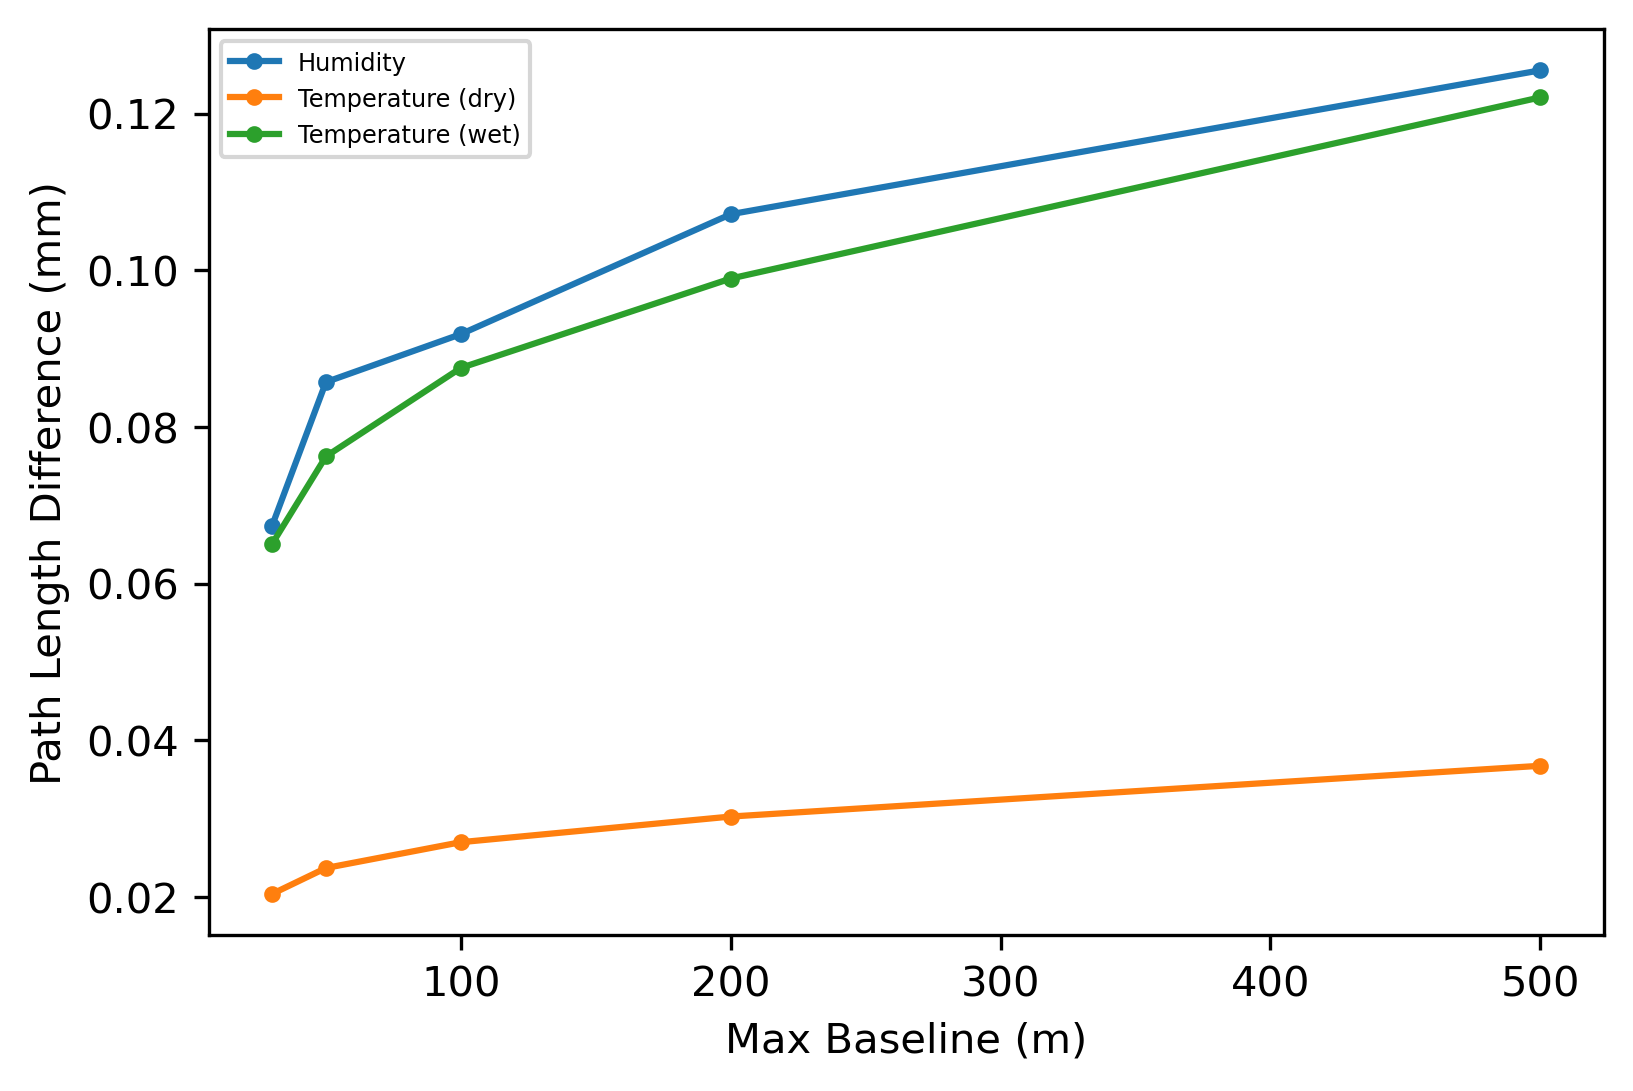
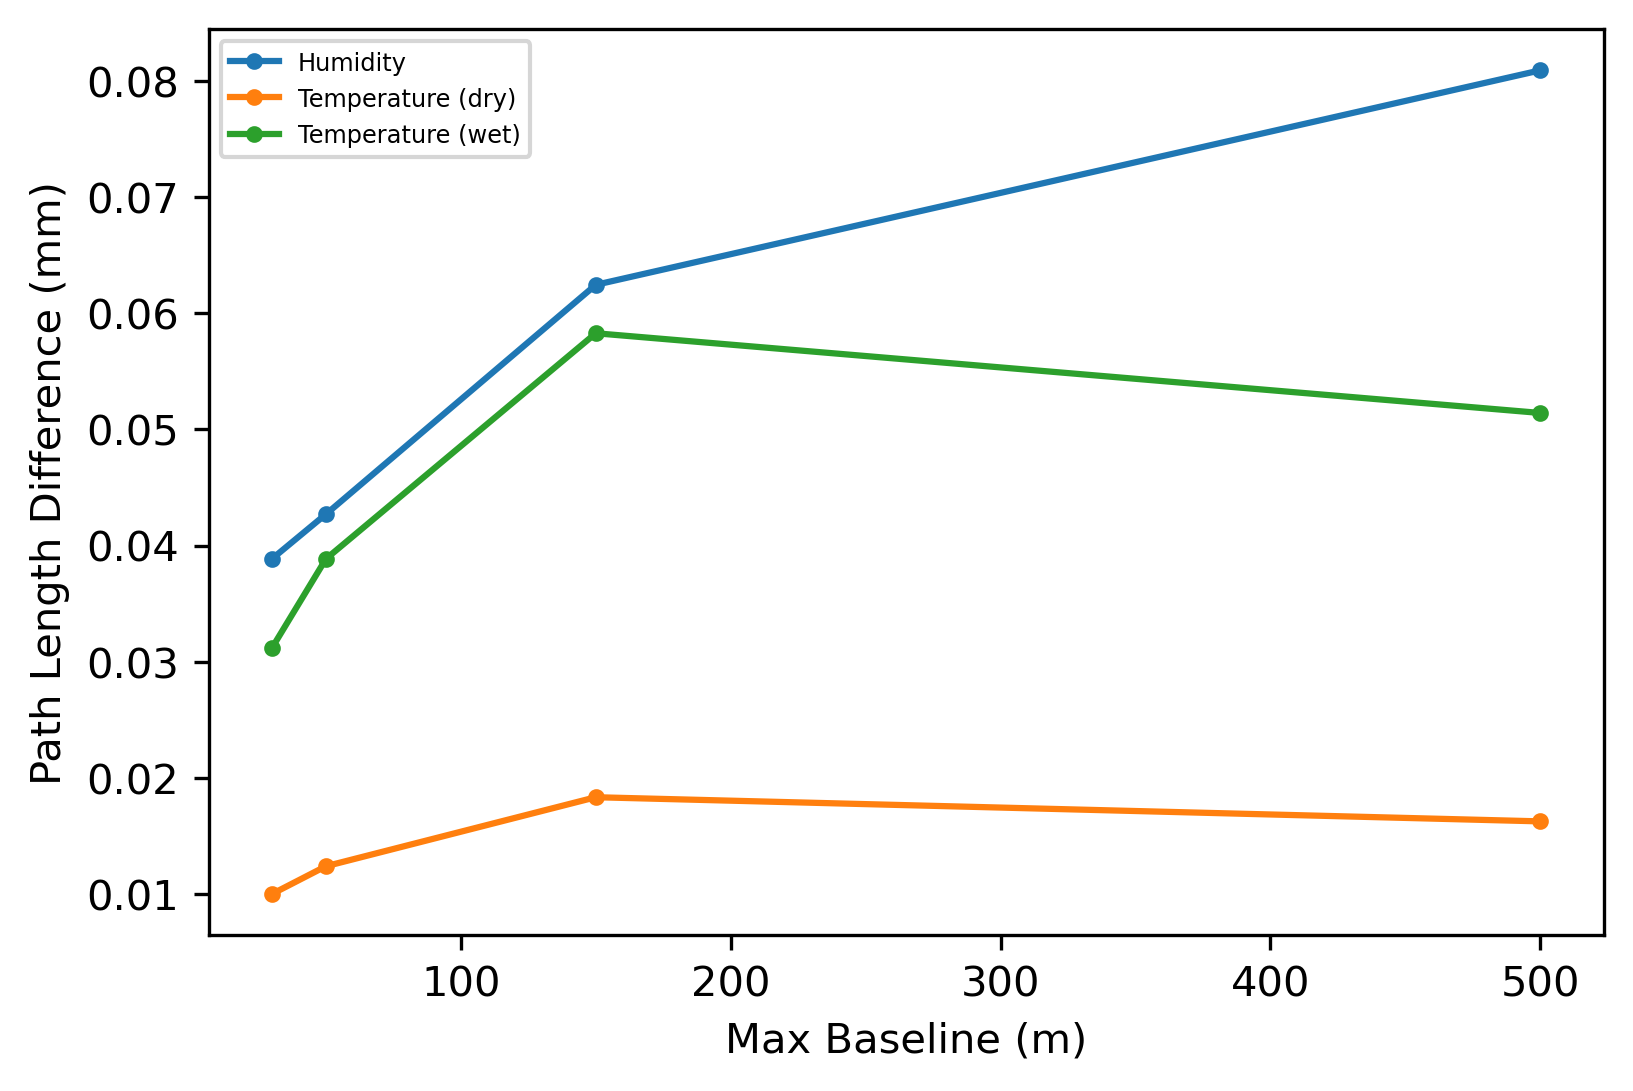
Final plots

diff --git a/test_plots.py b/test_plots.py
@@ -17,12 +17,11 @@ configs = [0,30,50,100,200,500,1000]
 
 
 distance = data['N-S']
-values = data['t']
+values = data['h']
 
 sc = np.logical_and(distance>0,distance<=30)
 co = np.logical_and(distance>30,distance<=50)
 ex1 = np.logical_and(distance>50,distance<=150)
-#ex2 = np.logical_and(distance>100,distance<=200)
 vex = np.logical_and(distance>150,distance<=1000)
 
 plt.semilogx(distance,values,'.',markersize=2)
@@ -33,16 +32,16 @@ lower = [np.percentile(values[sc],15.866),np.percentile(values[co],15.866),np.pe
 upper = [np.percentile(values[sc],84.134),np.percentile(values[co],84.134),np.percentile(values[ex1],84.134),np.percentile(values[vex],84.134)]
 errors = [lower,upper]
 positions = [np.median(distance[sc]),np.median(distance[co]),np.median(distance[ex1]),np.median(distance[vex])]
-plt.errorbar(positions,bins,yerr=errors,fmt='.',capsize=1.5)
-plt.xlim([1,600])
-plt.show()
+#plt.errorbar(positions,bins,yerr=errors,fmt='.',capsize=1.5)
+#plt.xlim([1,600])
+#plt.show()
 
 
 for i in range(1,6):
     plt.subplot(2,3,i)
     if i < 4:
         plt.title(data.columns.values[i+4],fontsize='x-small')
-        plt.semilogx(data.iloc[:,i+4],values,'.r',markersize=1,alpha=0.7)
+        plt.semilogx(data.iloc[:,i+4],values,'.b',markersize=1,alpha=0.7)
         distance = data.iloc[:,i+4]
         sc = np.logical_and(distance>0,distance<=30)
         co = np.logical_and(distance>30,distance<=50)
@@ -50,7 +49,7 @@ for i in range(1,6):
         vex = np.logical_and(distance>150,distance<=1000)
     else:
         plt.xlabel(data.columns.values[i+5],fontsize='x-small')
-        plt.semilogx(data.iloc[:,i+5],values,'.r',markersize=1,alpha=0.7)
+        plt.semilogx(data.iloc[:,i+5],values,'.b',markersize=1,alpha=0.7)
         distance = data.iloc[:,i+5]
         sc = np.logical_and(distance>0,distance<=30)
         co = np.logical_and(distance>30,distance<=50)
@@ -63,7 +62,7 @@ for i in range(1,6):
     errors = [abs(bins-lower),abs(bins-upper)]
     positions = [np.median(distance[sc]),np.median(distance[co]),np.median(distance[ex]),np.median(distance[vex])]
     plt.errorbar(positions,bins,yerr=errors,fmt='.k',capsize=1.5)
-
+    print(bins)
     plt.grid(True,which='both')
     #plt.yticks(np.arange(0,7,step=1),fontsize='xx-small')
     plt.xticks(fontsize='xx-small')
@@ -76,7 +75,41 @@ plt.subplot(2,3,6)
 #plt.boxplot(data['h'],sym='.',widths=1.5,positions=[1])
 plt.axis('off')
 plt.xlim([0,10])
-plt.suptitle('Temperature Offsets')
+plt.suptitle('Humidity Offsets')
 plt.show()
 
 #pp.close()
+plt.figure(figsize=(11,2.1))
+plt.suptitle("Humidity Offsets")
+for i in range(1,6):
+    plt.subplot(1,5,i)
+    plt.yticks(np.arange(0,7,step=1))
+    if i == 4:
+        i+=1
+    if i == 1:
+        plt.ylabel("% Humidity")
+    else:
+        plt.tick_params('y',labelleft=False)
+    distance = data.iloc[:,i+4]
+    plt.xlabel(data.columns.values[i+4]+' Distance')
+    plt.semilogx(distance,values,'.b',markersize=1.5,alpha=0.9)
+    
+    sc = np.logical_and(distance>0,distance<=30)
+    co = np.logical_and(distance>30,distance<=50)
+    ex = np.logical_and(distance>50,distance<=150)
+    vex = np.logical_and(distance>150,distance<=1000)
+    
+    bins = np.array([np.median(values[sc]),np.median(values[co]),np.median(values[ex]),np.median(values[vex])])
+    lower = np.array([np.percentile(values[sc],15.866),np.percentile(values[co],15.866),np.percentile(values[ex],15.866),np.percentile(values[vex],15.866)])
+    upper = np.array([np.percentile(values[sc],84.134),np.percentile(values[co],84.134),np.percentile(values[ex],84.134),np.percentile(values[vex],84.134)])
+    errors = [abs(bins-lower),abs(bins-upper)]
+    positions = [np.median(distance[sc]),np.median(distance[co]),np.median(distance[ex]),np.median(distance[vex])]
+    
+    plt.errorbar(positions,bins,yerr=errors,fmt='.k',capsize=1.5)
+    plt.grid(True,which='both')
+    plt.xlim([1,600])
+   # ax.tick_params(axis='both',labelsize=6)
+
+#plt.suptitle("Test Axes")
+plt.show()
+    

diff --git a/n_calculator.py b/n_calculator.py
@@ -30,34 +30,48 @@ def get_N(temp,rh):
 
     return(refracVals)
 
+temp_offsets = np.array([[0.25273164, 0.29846392, 0.52767189, 0.45965437],
+                        [0.30690863, 0.36257527, 0.48992712, 0.42425766],
+                        [0.28343576, 0.36257527, 0.61462785, 0.55395362],
+                        [0.29204384, 0.46563439, 0.61434332, 0.47715959],
+                        [0.29616528, 0.39820763, 0.53922996, 0.4831396]])
+
+rh_offsets = np.array([[1.17063942, 1.29853967, 1.69918469, 2.58830068],
+                      [1.2630582,  1.40159554, 2.18928169, 2.73907189],
+                      [1.27001066, 1.44896458, 2.3513875,  2.58830068],
+                      [1.26937382, 1.39496434, 2.03976827, 2.64276132],
+                      [1.32995991, 1.37060061, 1.87243808, 2.64276132]])
+
+delta_T = np.array([np.median(temp_offsets[:,0]),np.median(temp_offsets[:,1]),np.median(temp_offsets[:,2]),np.median(temp_offsets[:,3])])
+delta_RH = np.array([np.median(rh_offsets[:,0]),np.median(rh_offsets[:,1]),np.median(rh_offsets[:,2]),np.median(rh_offsets[:,3])])
 
 dry = get_N(0.0,15)
 wet = get_N(0.0,85)
 
-delta_RH = np.array([2.2,2.8,3.0,3.5,4.0])
-delta_T = np.array([0.6,0.7,0.8,0.9,0.8])
+#delta_RH = np.array([2.2,2.8,3.0,3.5,4.0])
+#delta_T = np.array([0.6,0.7,0.8,0.9,0.8])
 
 configs = ["SUB","COM","EX1","EX2","VEX"]
-configs = [30,50,100,200,500]
+configs = [30,50,150,500]
 
 path_humidity = []
-for idx in range(0,5):
+for idx in range(0,4):
     path = (get_N(0.0,15.0+delta_RH[idx])-dry)/10.
     path_humidity.append(path)
     
 path_humidity_wet = []
-for idx in range(0,5):
+for idx in range(0,4):
     path = (get_N(0.0,85.0+delta_RH[idx])-wet)/10.
     path_humidity_wet.append(path)
 
 path_temp_dry = []
-for idx in range(0,5):
+for idx in range(0,4):
     path = abs(get_N(delta_T[idx],15.0)-dry)/10.
     path_temp_dry.append(path)
 print(path_temp_dry)    
 
 path_temp_wet = []
-for idx in range(0,5):
+for idx in range(0,4):
     path = (get_N(delta_T[idx],85.0)-wet)/10.
     path_temp_wet.append(path)
 print(path_temp_wet)
@@ -70,3 +84,17 @@ plt.legend(fontsize = 'xx-small')
 plt.ylabel('Path Length Difference (mm)')
 plt.xlabel('Max Baseline (m)')
 plt.show()    
+
+
+#Temp Offsets [sc,co,ex,vex]
+temp_offsets = np.array([[0.25273164, 0.29846392, 0.52767189, 0.45965437],
+                        [0.30690863, 0.36257527, 0.48992712, 0.42425766],
+                        [0.28343576, 0.36257527, 0.61462785, 0.55395362],
+                        [0.29204384, 0.46563439, 0.61434332, 0.47715959],
+                        [0.29616528, 0.39820763, 0.53922996, 0.4831396]])
+
+rh_offsets = np.array([[1.17063942, 1.29853967, 1.69918469, 2.58830068],
+                      [1.2630582,  1.40159554, 2.18928169, 2.73907189],
+                      [1.27001066, 1.44896458, 2.3513875,  2.58830068],
+                      [1.26937382, 1.39496434, 2.03976827, 2.64276132],
+                      [1.32995991, 1.37060061, 1.87243808, 2.64276132]])

diff --git a/minute_weather.py b/minute_weather.py
@@ -9,11 +9,11 @@ import numpy as np
 import pandas as pd
 import matplotlib.pyplot as plt
 
+#month = 'SC_Dec2020'
+#enu = np.loadtxt('enu_dist/SUB_NovDec_2020.txt', delimiter=',')
+
 month = 'EX_Apr2020'
 enu = np.loadtxt('enu_dist/EXT_AprMay_2020.txt', delimiter=',')
-
-#month = 'EX_May2020'
-#enu = np.loadtxt('enu_dist/EXT_AprMay_2020.txt', delimiter=',')
 
 bad_ants = [6]
 
@@ -36,6 +36,9 @@ time = all_data['Unixtime'].values
 time = np.mod(time,86400)/3600
 
 night_mask = np.logical_and(time>4,time<16)
+
+#file = open("Sub_Dec20_solutions.txt",'w')
+fits = pd.read_csv("Sub_Dec20_solutions.txt",header=None)
 
 std_devs = pd.DataFrame(columns = ['AntA','AntB','t','p','h'])
 row = 0
@@ -63,7 +66,14 @@ for idx in range(1,9):
         tB = tB[ok]
         
         x = np.linspace(-10,10,201)
-        P = np.poly1d(np.polyfit(tA,tB,1))
+        z = np.polyfit(tA,tB,1)
+        P = np.poly1d(z)
+        #line = str(z[0])+','+str(z[1])+'\n'
+        #file.writelines(line)
+        
+        #P = np.poly1d([fits[0][row],fits[1][row]])
+        #print(P)
+        
         
         t_off = tB - P(tA)
         lower = np.percentile(t_off,15.866)
@@ -79,7 +89,7 @@ for idx in range(1,9):
         plt.text(9.5,-8.5,text,c='w',horizontalalignment='right')
         plt.text(9.5,-9.5,P,c='w',horizontalalignment='right')
         
-        plt.title("EX April 2020 (25m)")
+        plt.title("EXT Apr 2020 (original fit)")
         plt.xlabel("Temperature ($^\circ$C) of Ant "+str(A),fontsize='x-small')
         plt.ylabel("Temperature ($^\circ$C) of Ant "+str(B),fontsize='x-small')
 
@@ -147,6 +157,8 @@ for idx in range(1,9):
                 
         std_devs.loc[row] = [A,B,t_sigma,p_sigma,h_sigma]
         row+=1
+#file.close()
+print("APR ORIGINAL FIT")
 print(std_devs)
 
 ########################### getting the baselines
